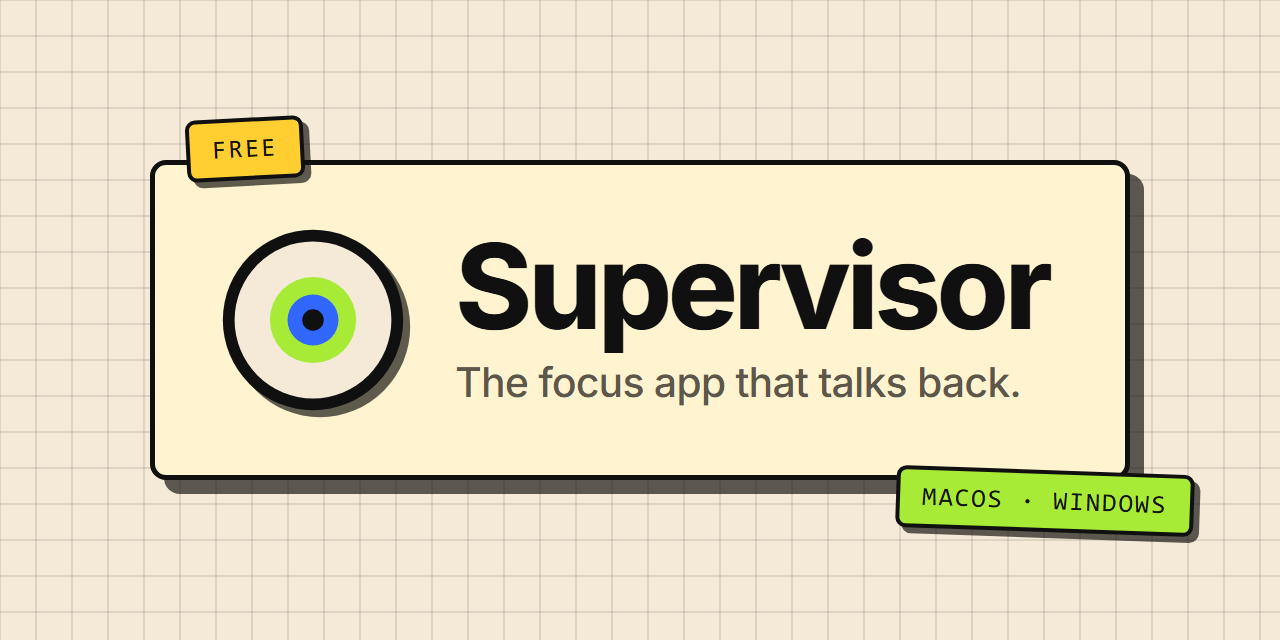
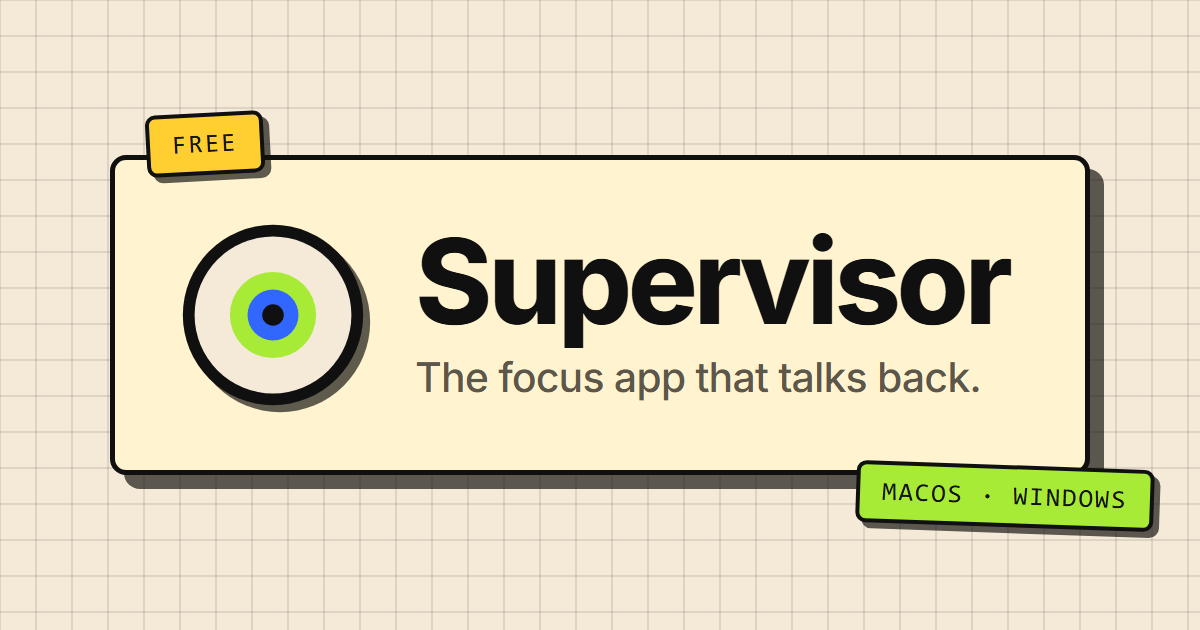
Website: share card at the size social apps expect, with the site name

Changed region(s): [[0.0925, 0.1508, 0.9867, 0.8746], [0.3392, 0.573, 0.8325, 0.6333]]

diff --git a/website/index.html b/website/index.html
@@ -7,12 +7,13 @@
 <meta name="description" content="Start a session. Open a distraction and a voice you chose tells you to get back to work. Free, for macOS and Windows, and everything stays on your computer." />
 <meta name="color-scheme" content="light dark" />
 <meta property="og:type" content="website" />
+<meta property="og:site_name" content="Supervisor" />
 <meta property="og:url" content="https://supervisorfocus.com/" />
 <meta property="og:title" content="Supervisor — the focus app that talks back" />
 <meta property="og:description" content="Get distracted and a voice you recorded tells you to get back to work. Free, for macOS and Windows." />
 <meta property="og:image" content="https://supervisorfocus.com/assets/share-card.png" />
-<meta property="og:image:width" content="1280" />
-<meta property="og:image:height" content="640" />
+<meta property="og:image:width" content="1200" />
+<meta property="og:image:height" content="630" />
 <meta property="og:image:alt" content="Supervisor, the focus app that talks back. Free for macOS and Windows." />
 <meta name="twitter:card" content="summary_large_image" />
 <link rel="icon" href="assets/eye.svg" type="image/svg+xml" />
